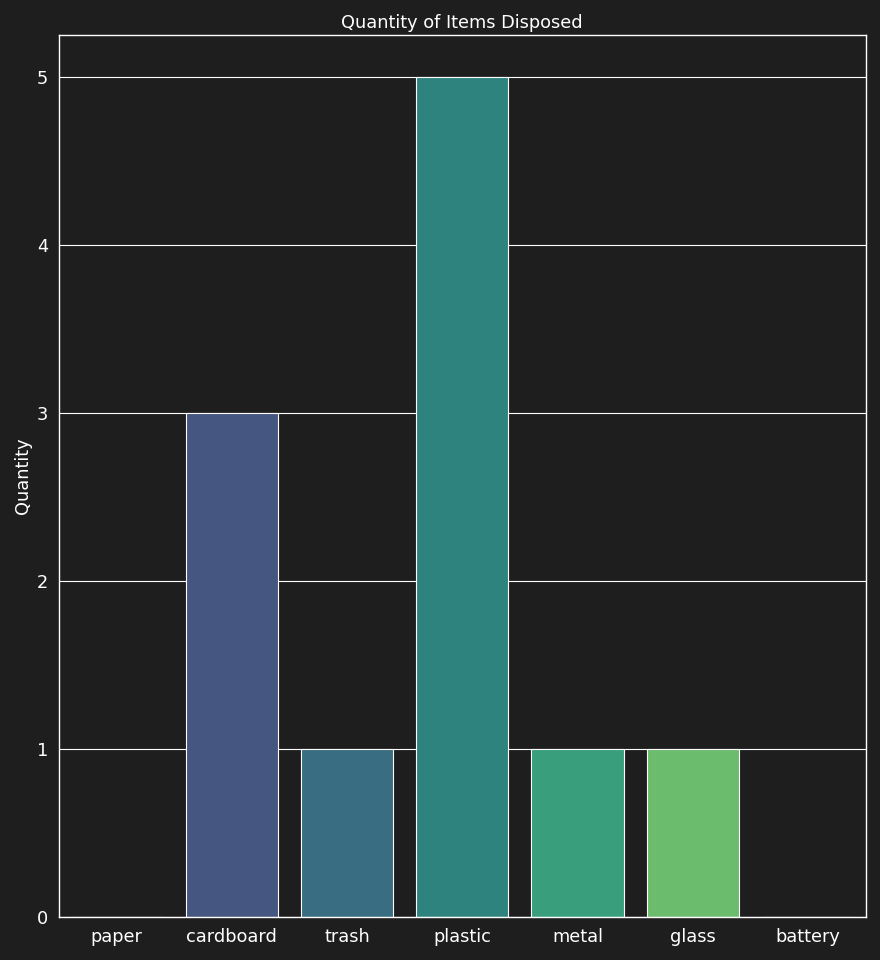
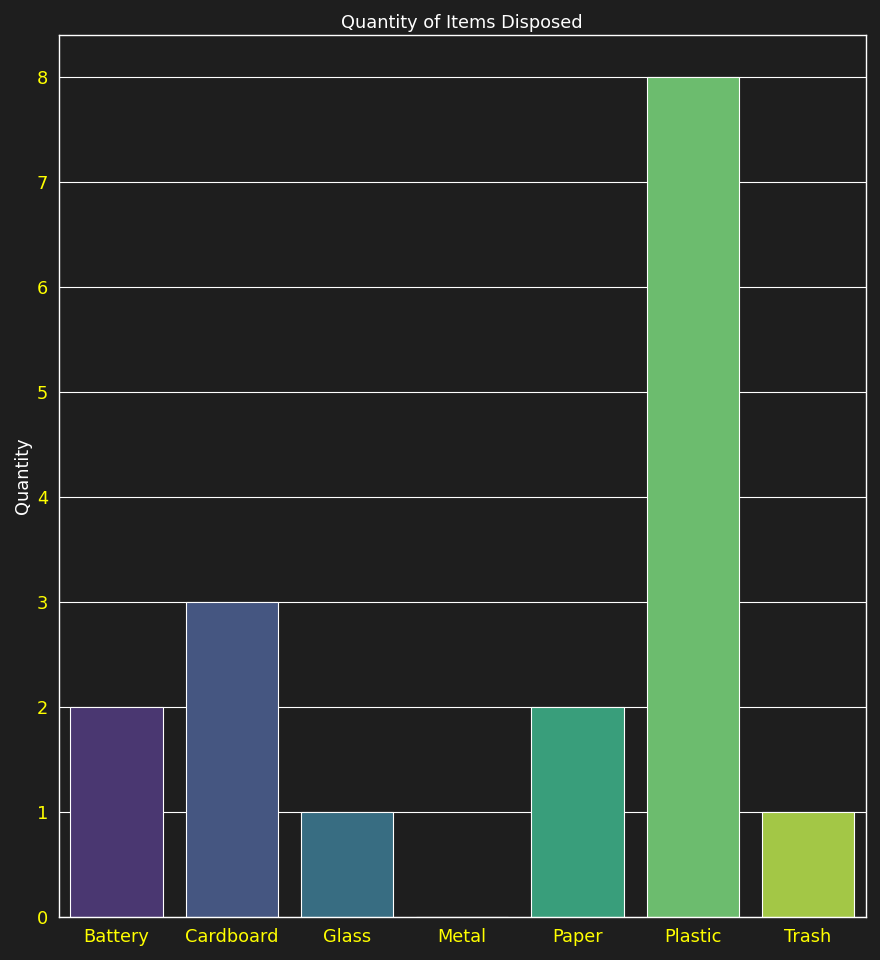
Minor optimizations and aesthetic improvements.

diff --git a/Smart-Trash-Can/iRecycle_v2.py b/Smart-Trash-Can/iRecycle_v2.py
@@ -178,8 +178,11 @@ def plot_bar_chart(file_counts):
     data = {'Item Categories': list(file_counts.keys()), 'Quantity': list(file_counts.values())}
     df = pd.DataFrame(data)
 
+    # Sort DataFrame by 'Item Categories' column
+    df = df.sort_values(by='Item Categories')
+
     # Set a color palette
-    colors = sns.color_palette('viridis', n_colors=len(df))
+    colors = sns.color_palette("viridis", n_colors=len(df))
 
     # Set the background color to black
     sns.set(style="darkgrid")
@@ -191,9 +194,9 @@ def plot_bar_chart(file_counts):
     # Set background color
     ax.set_facecolor('#1E1E1E')
 
-    # Set text color to white
-    plt.xticks(color='white', fontsize=16)
-    plt.yticks(color='white', fontsize=16)
+    # Set text color to white and capitalize x-axis labels
+    plt.xticks(ticks=range(len(df['Item Categories'])), labels=df['Item Categories'].str.capitalize(), color='yellow', fontsize=16, rotation=0, ha='center')
+    plt.yticks(color='yellow', fontsize=16)
     ax.xaxis.label.set_color('white')
     ax.yaxis.label.set_color('white')
 
@@ -214,6 +217,7 @@ def plot_bar_chart(file_counts):
     # Save the plot
     plt.savefig('statistics_plot.png')
     plt.close()
+
 
 def display_statistics_window():
     statistics_image = cv.imread('statistics_plot.png')
